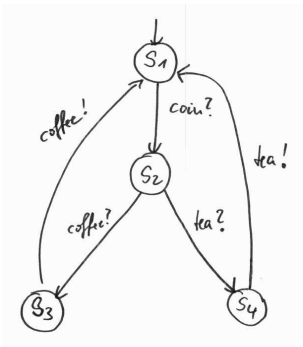
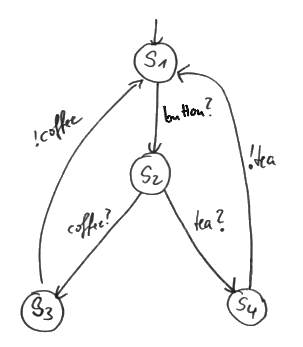
More fixes

diff --git a/index.html b/index.html
@@ -155,7 +155,7 @@
                             <h4 class="left">Advantages</h4>
 
                             * **Powerful method** for finding software errors
-                            * Mathematical **proof** of absence of errors in implementations relative to specifications
+                            * Mathematical **proof** of absence of errors in models relative to specifications
                         </script>
                     </section>
                     <section data-markdown>
@@ -186,6 +186,11 @@
                             **Software Testing** is the process of executing a program or system
                             with the intent of finding errors.
                             However, "Testing shows the presence, not the absence of bugs" (Dijkstra).
+
+                            <br>
+                            <p>
+                                <i class="icon-info-sign"></i> It is the **validation** part!
+                            </p>
                         </script>
                     </section>
                     <section data-markdown>
@@ -472,7 +477,7 @@
                     </section>
                     <section data-markdown>
                         <script type="text/template">
-                            ## Implementation Relations
+                            ## Implementation Relation
 
                             <br>
                             <p class="force-inline">
@@ -516,28 +521,31 @@
                             </p>
                         </script>
                     </section>
-                    <section data-markdown>
-                        <script type="text/template">
-                            ## Test Execution
+                    <section>
+                        <h2>Test Execution</h2>
 
+                        <p class="force-inline">
                             <br>
-                            $$ exec: TESTS \times MODS \mapsto P(OBS) $$
+                            Successful execution of a test case $$ TC $$:
+                        </p>
 
-                            <br>
-                            <ul class="force-inline">
-                                <li>$$ OBS $$ is the domain of all observations</li>
-                                <li>$$ TESTS $$ is the universe of test cases</li>
-                            </ul>
+                        <p>
+                            $$ I_{iut}\ {\bf passes}\ TC $$
+                        </p>
 
+                        <p class="force-inline">
                             <br>
-                            <p class="force-inline">
-                                The $$ verdict $$ function assigns to each observation
-                                <br>a $$ pass $$ or $$ fail $$ verdict:
-                            </p>
+                            It is easily extended to a test suite $ TS $:
+                        </p>
 
+                        <p>
+                            $$ I_{iut}\ {\bf passes}\ TS \Leftrightarrow \forall\ TC \in TS : I_{iut}\ {\bf passes}\ TC $$
+                        </p>
+
+                        <p class="force-inline">
                             <br>
-                            $$ verdict: OBS \mapsto \lbrace Fail, Pass \rbrace $$
-                        </script>
+                            <i class="icon-info-sign"></i> $$ I_{iut}\ {\bf fails}\ TC \Leftrightarrow I_{iut}\ \cancel{\bf passes} TC $$
+                        </p>
                     </section>
                     <section data-markdown>
                         <script type="text/template">
@@ -559,6 +567,18 @@
 
                             <br>
                             <p class="force-inline"><i class="icon-info-sign"></i> $$ TS \subseteq TESTS $$ is a test suite.</p>
+                        </script>
+                    </section>
+                    <section data-markdown>
+                        <script type="text/template">
+                            ## Test Architecture
+
+                            <p class="force-inline">
+                                <br>
+                                A **test architecture** is an abstract description of the **environment** in which an
+                                implementation under test ($$ iut $$) is embedded, and where it communicates with a
+                                **tester**.
+                            </p>
                         </script>
                     </section>
                     <section data-markdown>
@@ -640,23 +660,19 @@
                             $$
                             \begin{align}
                             traces(s_{3}) =
-                            & \lbrace \epsilon, \\
+                            & \lbrace \\
                             & BUTTON, \\
                             & BUTTON \cdot TEA \cdot BUTTON, \\
                             & \dots \rbrace = traces(s_{1}) = traces(s_{4}) \\
                             \\
                             traces(s_{2}) =
-                            & \lbrace \epsilon, \\
+                            & \lbrace \\
                             & TEA, \\
                             & COFFEE, \\
                             & TEA \cdot BUTTON \cdot TEA, \\
                             & \dots \rbrace
                             \end{align}
                             $$
-                        </p>
-                        <p class="force-inline">
-                            <br>
-                            <i class="icon-info-sign"></i> $$ \epsilon $$ is the empty word, part of the alphabet $$ Act $$.
                         </p>
                     </section>
                     <section>
@@ -697,7 +713,7 @@
                             <br>
                             $$
                             \begin{align}
-                            Act_{I} = & \lbrace COIN?, COFFEE?, TEA? \rbrace \\
+                            Act_{I} = & \lbrace BUTTON?, COFFEE?, TEA? \rbrace \\
                             Act_{U} = & \lbrace COFFEE!, TEA! \rbrace
                             \end{align}
                             $$
@@ -705,7 +721,7 @@
                     </section>
                     <section data-markdown>
                         <script type="text/template">
-                            ## Conformance Relations
+                            ## Conformance Relation
 
                             <br>
                             Relating two LTS can be done in a variety of manners:
@@ -781,10 +797,10 @@
                     </section>
                     <section data-markdown>
                         <script type="text/template">
-                            ## Formal Test Execution
+                            ## Parallel Execution
 
                             <br>
-                            **Formally executing** a test case means putting it in parallel
+                            **Executing** a test case by putting it in parallel
                             with the implementation model, leading to a **verdict**.
                         </script>
                     </section>
@@ -844,8 +860,8 @@
 
                         <br>
                         <p>
-                            Michelin relies on the <strong>C</strong>omputer <strong>I</strong>ntegrated <strong>M</strong>anufacturing
-                            <br>(CIM) approach to control the entire production:
+                            Michelin relies on a method close to the <strong>C</strong>omputer <strong>I</strong>ntegrated <strong>M</strong>anufacturing
+                            (CIM) approach to control its production:
                         </p>
 
                         <div class="float-left" style="width: 65%">
@@ -1026,6 +1042,16 @@
                     { src: 'js/pageNumbers.js' },
                     { src: 'reveal.js/plugin/math/math.js', async: true },
                 ]
+            });
+        </script>
+        <script type="text/x-mathjax-config">
+            MathJax.Hub.Register.StartupHook("TeX Jax Ready",function () {
+                MathJax.Hub.Insert(MathJax.InputJax.TeX.Definitions.macros,{
+                    cancel: ["Extension","cancel"],
+                    bcancel: ["Extension","cancel"],
+                    xcancel: ["Extension","cancel"],
+                    cancelto: ["Extension","cancel"]
+                });
             });
         </script>
     </body>
